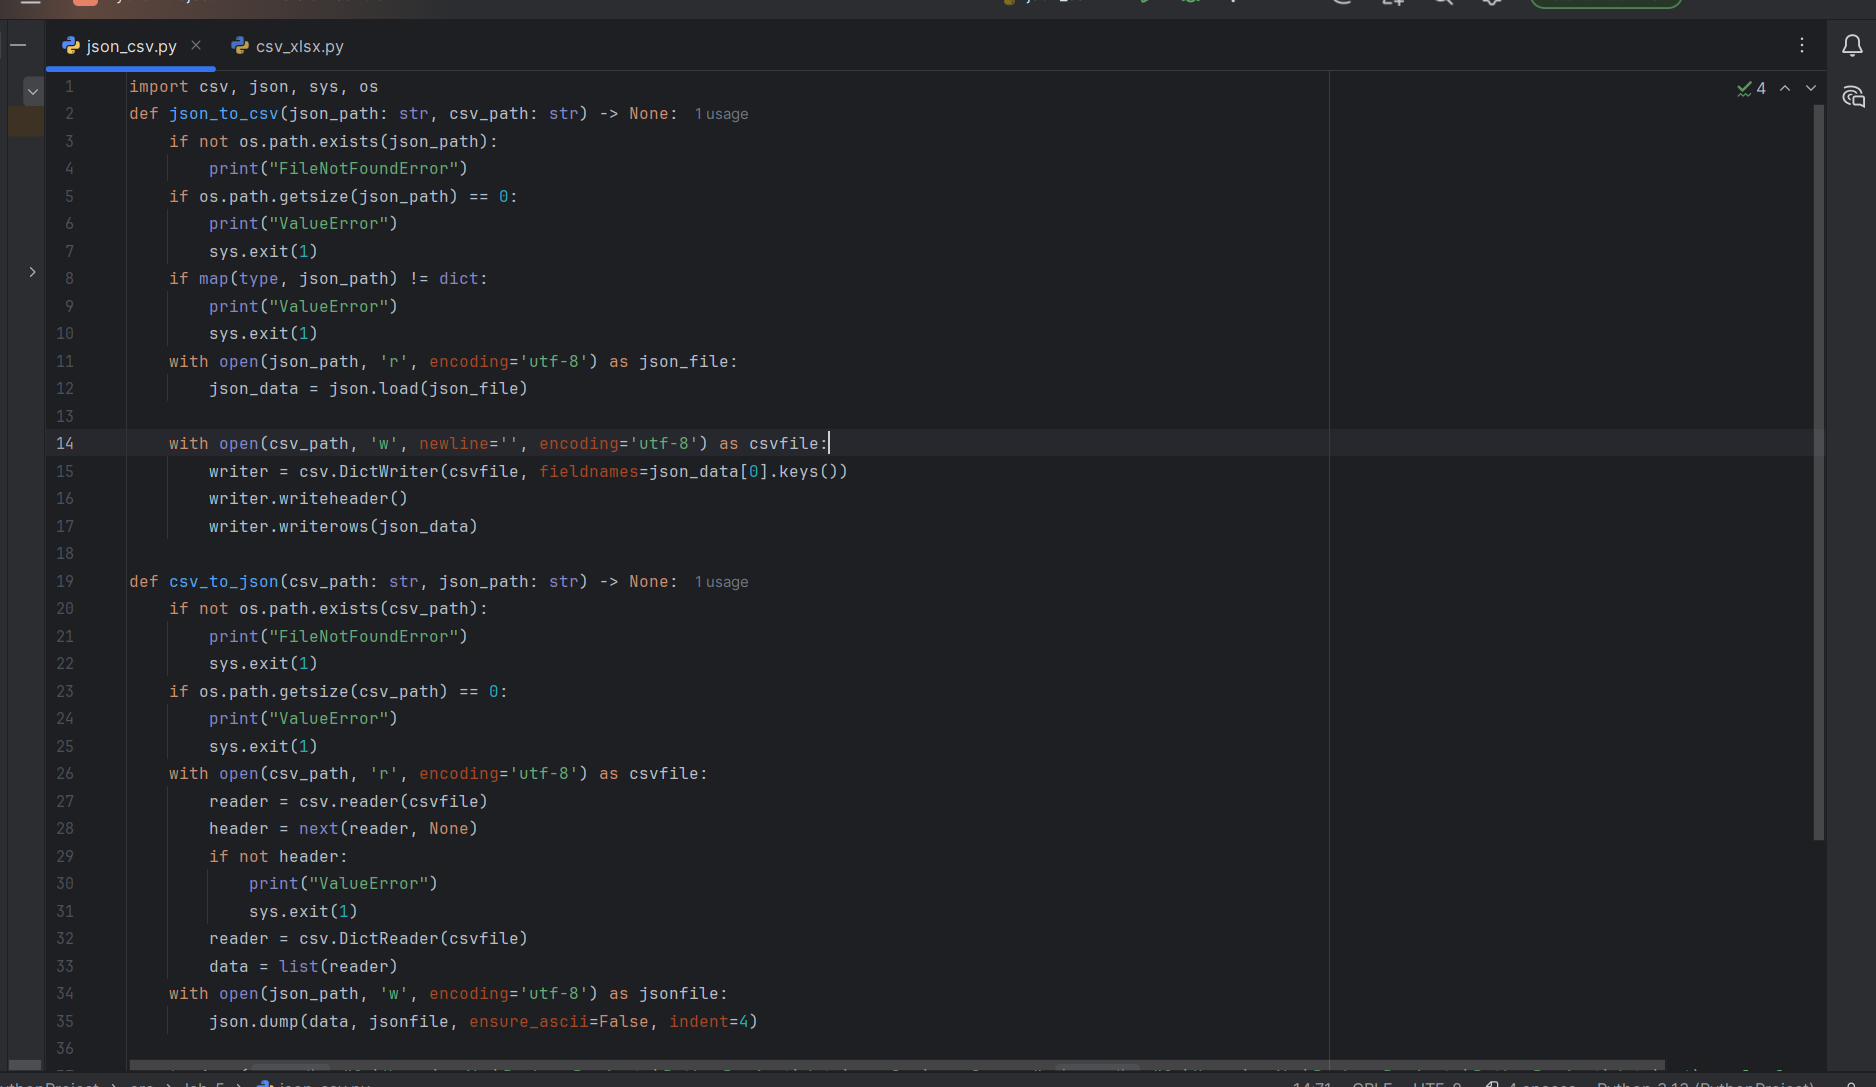
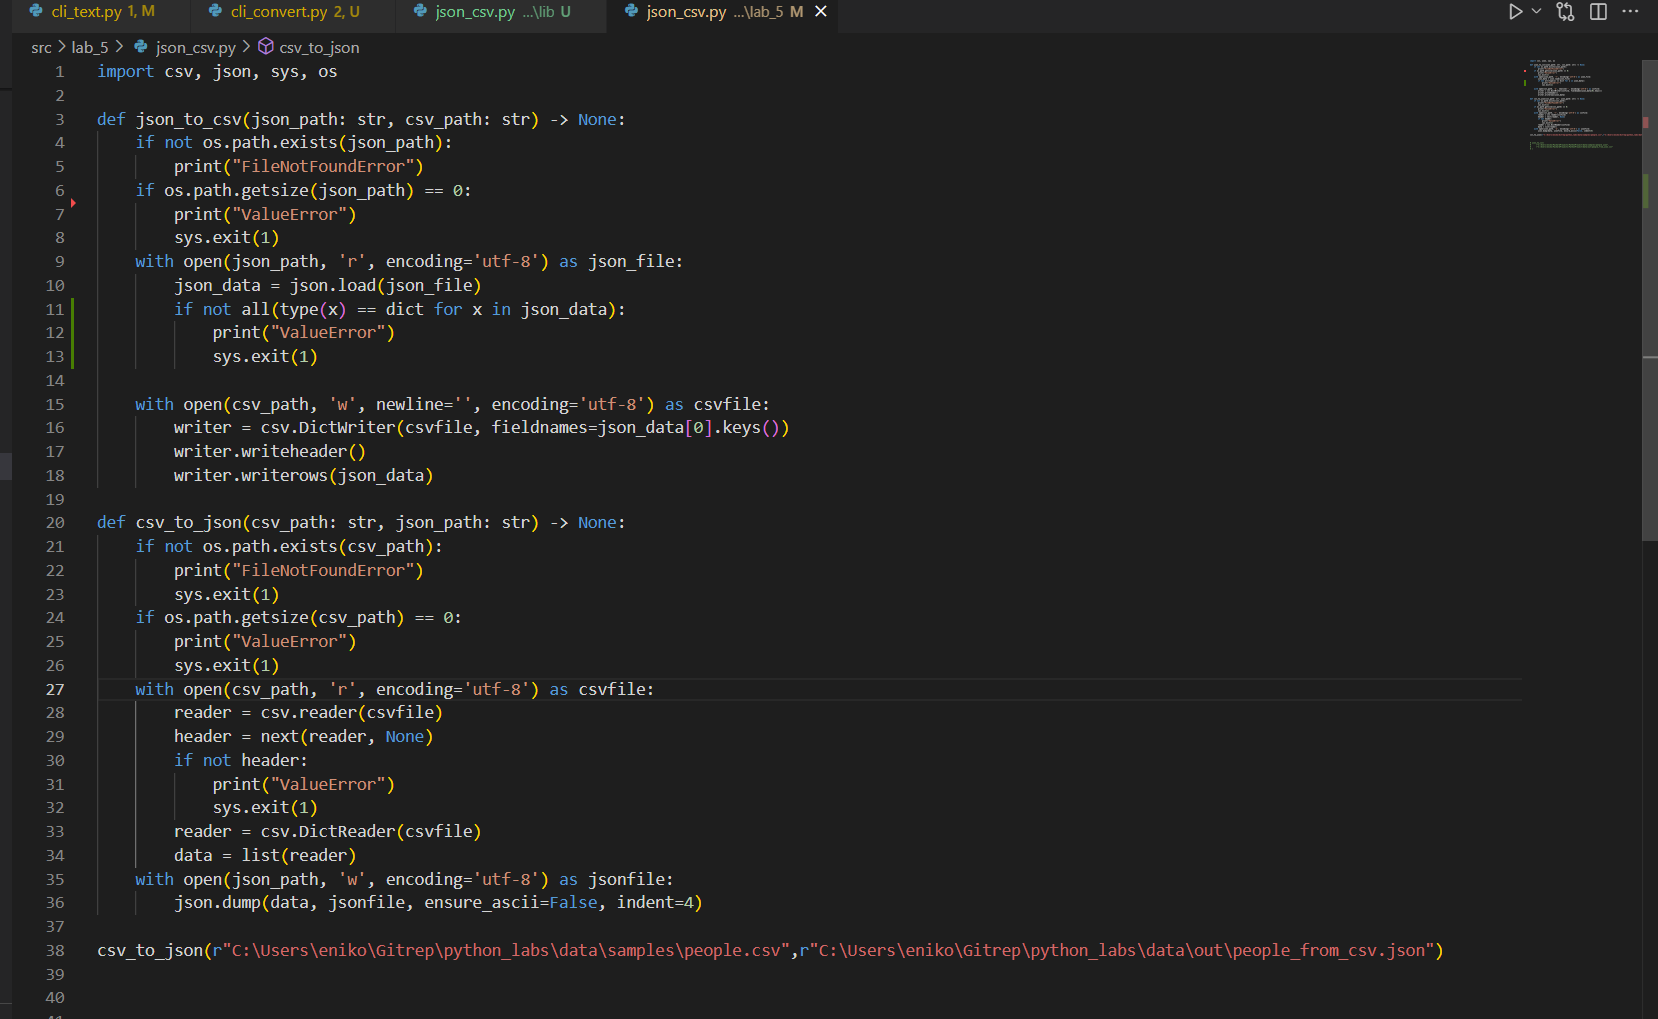
+

diff --git a/src/lab_6/cli_text.py b/src/lab_6/cli_text.py
@@ -1,6 +1,74 @@
-from lib.text import top_n
-from lib.text_stats import tokenize
+import sys
+sys.path.append(r"C:\Users\eniko\Gitrep\python_labs\src\lib")
+from text_stats import stats_text
 import argparse
-parser = argparse.ArgumentParser(description="Лабораторная №6")
-subparsers = parser.add_subparsers(dest="comnds")
-cat_parser = subparsers.add_parser("cat", help)
+import os
+
+
+def cat_command(input_file: str, number_lines: bool = False):
+    if not check_file(input_file):
+        sys.exit(1)
+    
+    try:
+        with open(input_file, 'r', encoding='utf-8') as f:
+            for line_number, line in enumerate(f, start=1):
+                if number_lines:
+                    print(f"{line_number:6d}  {line}", end='')
+                else:
+                    print(line, end='')
+    except Exception as e:
+        print(f"Ошибка при чтении файла: {e}", file=sys.stderr)
+        sys.exit(1)
+
+def check_file(file_path: str) -> bool:
+    if not os.path.exists(file_path):
+        print(f"Ошибка: файл '{file_path}' не существует", file=sys.stderr)
+        return False
+    if not os.path.isfile(file_path):
+        print(f"Ошибка: '{file_path}' не является файлом", file=sys.stderr)
+        return False
+
+    return True
+
+def stats_command(input_file: str, top_n: int = 5):
+    if not check_file(input_file):
+        sys.exit(1)
+    
+    if top_n <= 0:
+        print("Ошибка: значение --top должно быть положительным числом", file=sys.stderr)
+        sys.exit(1)
+    
+    try:
+        with open(input_file, 'r', encoding='utf-8') as f:
+            text = f.read()
+            stats_text(text, top_n)
+
+    except Exception as e:
+        print(f"Ошибка при анализе файла: {e}", file=sys.stderr)
+        sys.exit(1)
+
+def main():
+    parser = argparse.ArgumentParser(description="Лабораторная №6")
+    subparsers = parser.add_subparsers(dest="command")
+
+    cat_parser = subparsers.add_parser("cat", help="Вывести содержимое файла")
+    cat_parser.add_argument("--input", required=True)
+    cat_parser.add_argument("-n", action="store_true", help="Нумеровать строки")
+
+    stats_parser = subparsers.add_parser("stats", help="Частоты слов")
+    stats_parser.add_argument("--input", required=True)
+    stats_parser.add_argument("--top", type=int, default=5)
+
+    args = parser.parse_args()
+
+    if args.command == "cat":
+        cat_command(args.input, args.n)
+    elif args.command == "stats":
+        stats_command(args.input, args.top)
+    else:
+
+        parser.print_help()
+        sys.exit(1)
+
+if __name__ == "__main__":
+    main()

diff --git a/src/lab_6/cli_convert.py b/src/lab_6/cli_convert.py
@@ -1,0 +1,65 @@
+import sys, argparse
+sys.path.append(r"C:\Users\eniko\Gitrep\python_labs\src\lib")
+sys.path.append(r"C:\Users\eniko\Gitrep\python_labs\src\lab_6")
+from csv_xlsx import csv_to_xlsx
+from json_csv import json_to_csv, csv_to_json
+from cli_text import check_file
+
+
+def cli_convert():
+    parser = argparse.ArgumentParser(description="Конвертеры данных")
+    sub = parser.add_subparsers(dest="cmd", required=True)
+    
+    p1 = sub.add_parser("json2csv")
+    p1.add_argument("--in", dest="input", required=True, help="Входной JSON файл")
+    p1.add_argument("--out", dest="output", required=True, help="Выходной CSV файл")
+
+    p2 = sub.add_parser("csv2json")
+    p2.add_argument("--in", dest="input", required=True, help="Входной CSV файл")
+    p2.add_argument("--out", dest="output", required=True, help="Выходной JSON файл")
+
+    p3 = sub.add_parser("csv2xlsx")
+    p3.add_argument("--in", dest="input", required=True, help="Входной CSV файл")
+    p3.add_argument("--out", dest="output", required=True, help="Выходной XLSX файл")
+    
+    args = parser.parse_args()
+
+    try:
+        if args.cmd == "json2csv":
+            if not check_file(args.input):
+                print(f"Ошибка: Файл {args.input} не существует или недоступен")
+                return 1
+                
+            json_to_csv(args.input, args.output)
+            print(f"Успешно: JSON -> CSV")
+            
+        elif args.cmd == "csv2json":
+            if not check_file(args.input):
+                print(f"Ошибка: Файл {args.input} не существует или недоступен")
+                return 1
+                
+            csv_to_json(args.input, args.output)
+            print(f"Успешно: CSV -> JSON")
+            
+        elif args.cmd == "csv2xlsx":
+            if not check_file(args.input):
+                print(f"Ошибка: Файл {args.input} не существует или недоступен")
+                return 1
+                
+            csv_to_xlsx(args.input, args.output)
+            print(f"Успешно: CSV -> XLSX")
+            
+        else:
+            print("Ошибка: Неизвестная команда")
+            return 1
+            
+        return 0
+        
+    except Exception as e:
+        print(f"Ошибка при конвертации: {str(e)}")
+        return 1
+
+if __name__ == "__main__":
+    sys.exit(cli_convert())
+
+#python src\lab_6\cli_convert.py json2csv --in data\samples\people.json --out data\out\people_from_json.csv

diff --git a/src/lib/json_csv.py b/src/lib/json_csv.py
@@ -1,0 +1,35 @@
+import csv, json, sys, os
+
+def json_to_csv(json_path: str, csv_path: str) -> None:
+    if not os.path.exists(json_path):
+        print("FileNotFoundError")
+    if os.path.getsize(json_path) == 0:
+        print("1ValueError")
+        sys.exit(1)
+    with open(json_path, 'r', encoding='utf-8') as json_file:
+        json_data = json.load(json_file)
+        if not all(type(x) == dict for x in json_data):
+            print("ValueError")
+            sys.exit(1)
+    with open(csv_path, 'w', newline='', encoding='utf-8') as csvfile:
+        writer = csv.DictWriter(csvfile, fieldnames=json_data[0].keys())
+        writer.writeheader()
+        writer.writerows(json_data)
+
+def csv_to_json(csv_path: str, json_path: str) -> None:
+    if not os.path.exists(csv_path):
+        print("FileNotFoundError")
+        sys.exit(1)
+    if os.path.getsize(csv_path) == 0:
+        print("3ValueError")
+        sys.exit(1)
+    with open(csv_path, 'r', encoding='utf-8') as csvfile:
+        reader = csv.reader(csvfile)
+        header = next(reader, None)
+        if not header:
+            print("4ValueError")
+            sys.exit(1)
+        reader = csv.DictReader(csvfile)
+        data = list(reader)
+    with open(json_path, 'w', encoding='utf-8') as jsonfile:
+        json.dump(data, jsonfile, ensure_ascii=False, indent=4)

diff --git a/src/lib/text_stats.py b/src/lib/text_stats.py
@@ -1,5 +1,5 @@
 import sys
-sys.path.append(r'C:\Users\eniko\PycharmProjects\PythonProject\src\lib')
+sys.path.append(r'C:\Users\eniko\Gitrep\python_labs\src\lib')
 
 from text import normalize, tokenize, count_freq, top_n
 
@@ -17,7 +17,7 @@ def table(arr: list[tuple[str, int]], isTable: bool = True) -> str:
         return s
     else:
         return "\n".join(f"{a[0]}: {a[1]}" for a in arr)
-def main(text: str):
+def stats_text(text: str, n: int = 5):
     text = text.strip()
     tokens = normalize(text)
     tokens = tokenize(tokens)
@@ -26,6 +26,6 @@ def main(text: str):
     unique_words = len(freqs)
     print(f"Всего слов: {total_words}")
     print(f"Уникальных слов: {unique_words}")
-    top5 = sorted(freqs.items(), key=lambda x: (-x[1], x[0]))[:5]
-    print("Топ-5:")
-    print(table(top5, True))
+    top_n_words = sorted(freqs.items(), key=lambda x: (-x[1], x[0]))[:n]
+    print(f"Топ-{n}:")
+    print(table(top_n_words, True))

diff --git a/src/lib/csv_xlsx.py b/src/lib/csv_xlsx.py
@@ -1,0 +1,32 @@
+import os, csv, sys
+
+from openpyxl import Workbook
+
+def csv_to_xlsx(csv_path: str, xlsx_path: str) -> None:
+    if not os.path.exists(csv_path):
+        print("FileNotFoundError")
+        sys.exit(1)
+
+    if os.path.getsize(csv_path) == 0:
+        print("ValueError")
+        sys.exit(1)
+    wb = Workbook()
+    ws = wb.active
+    ws.title = "Sheet1"
+
+    with open(csv_path, "r", encoding="utf-8") as csv_file:
+        reader = csv.reader(csv_file)
+        for row in reader:
+            ws.append(row)
+
+
+    for column_cells in ws.columns:
+        max_length = 0
+        column_letter = column_cells[0].column_letter
+        for cell in column_cells:
+            if cell.value:
+                max_length = max(max_length, len(str(cell.value)))
+        ws.column_dimensions[column_letter].width = max(max_length + 2, 8)
+    wb.save(xlsx_path)
+
+

diff --git a/src/lab_6/README.md b/src/lab_6/README.md
@@ -1,0 +1,28 @@
+# Лабораторная работа №6
+-----------
+## `Файл cli_text.py`
+![alt text](../../images/lab_6/1.png)
+
+![alt text](../../images/lab_6/2.png)
+### Вывод строк с номерами:
+![alt text](../../images/lab_6/3.png)
+### Вывод топ слов :
+![alt text](../../images/lab_6/4.png)
+## `Файл cli_convert.py`
+![alt text](../../images/lab_6/5.png)
+
+![alt text](../../images/lab_6/6.png)
+
+### Вывод JSON -> CSV:
+![alt text](../../images/lab_6/7.png)
+
+![alt text](../../images/lab_6/10.png)
+
+![alt text](../../images/lab_6/11.png)
+### Вывод CSV -> JSON:
+![alt text](../../images/lab_6/8.png)
+### Вывод CSV -> XLSX:
+![alt text](../../images/lab_6/9.png)
+### Help:
+![alt text](../../images/lab_6/12.png)
+![alt text](../../images/lab_6/13.png)

diff --git a/src/lab_5/README.md b/src/lab_5/README.md
@@ -2,7 +2,8 @@
 -----------
 ## `Файл json_csv.py`
 ### -> Проверяем есть ли файл, потом его размер (не равен нулю в байтах). В json проверяем словарь ли это, а в csv есть ли заголовок. С помощью DictReader записываем первую строку как ключи, а след строки как словари (ключ : значение)
-<img width="1876" height="1087" alt="1" src="https://github.com/user-attachments/assets/1036ea1c-6065-4bad-96da-03cdf31621c8" />
+![alt text](../../images/lab_5/1.png)
+
 <img width="1760" height="185" alt="2" src="https://github.com/user-attachments/assets/05c8b678-7fd6-4786-87a3-774f5c6146d0" />
 
 ## CSV -> JSON:
